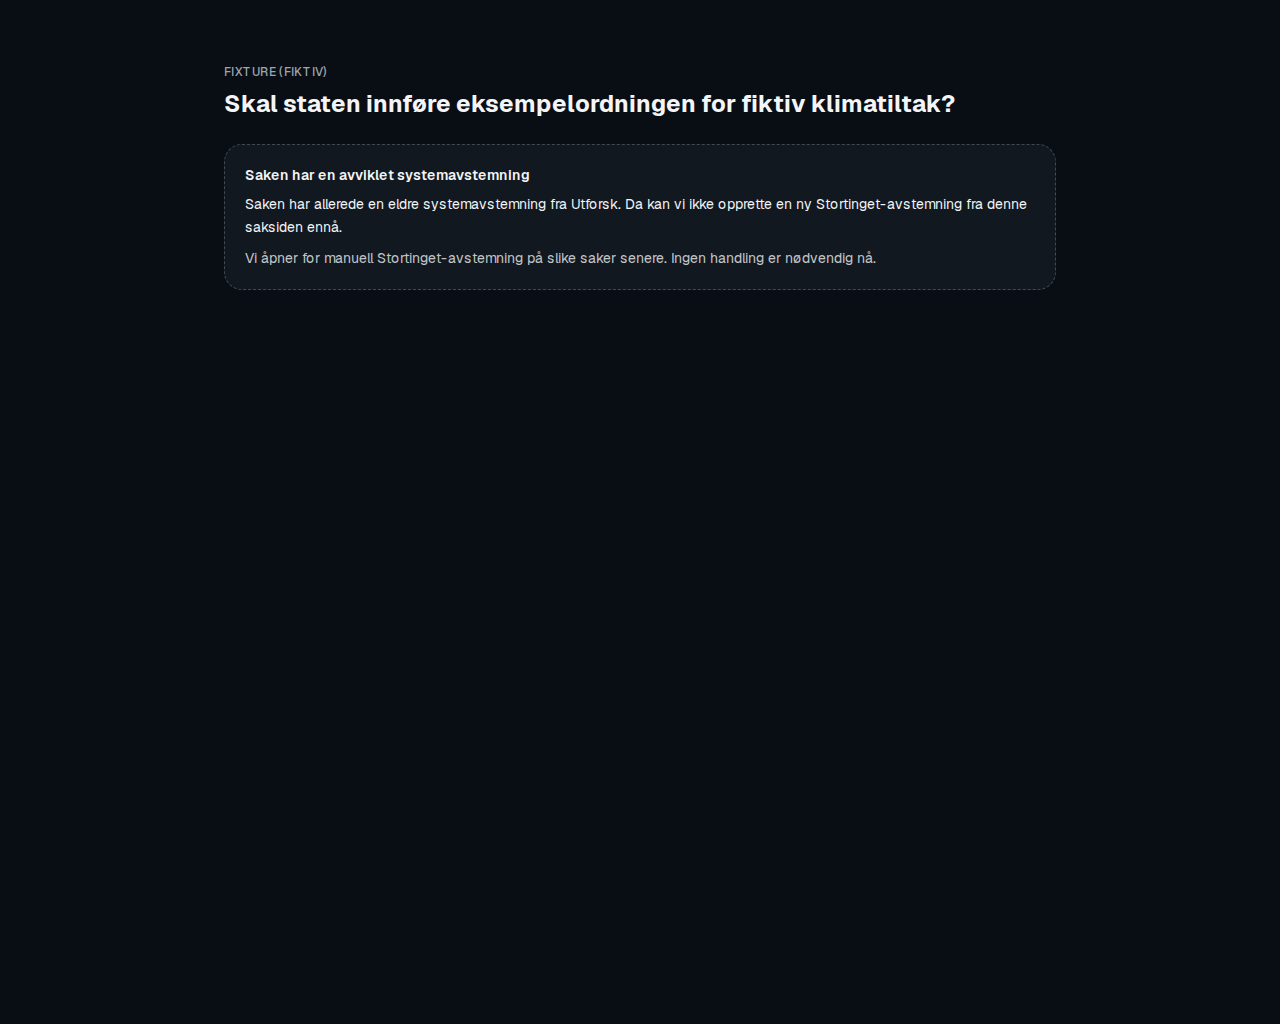
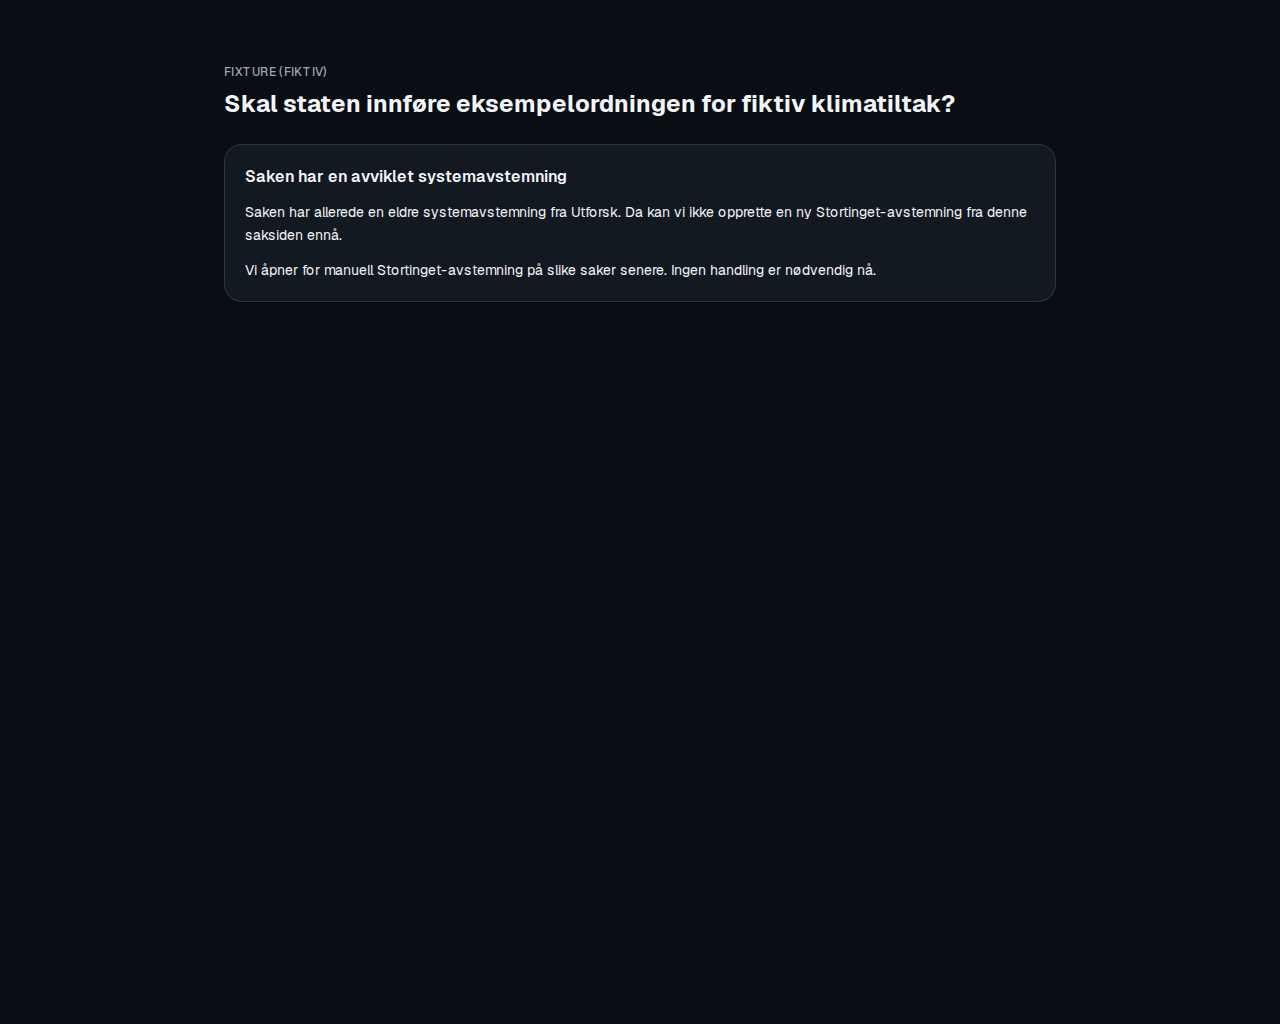
fix(admin,polls): dialog errors, closed ballot results, PNGs
Show validation alert above dialog footer with invalid field styling;
closed poll detail shows read-only result tiles; Rediger stengt-note above
Dato with space-y-3. Regenerate fixture screenshots including blocked
state and avstemning-detalj-avsluttet dark.

Changed region(s): [[0.1875, 0.1562, 0.8125, 0.2812]]

diff --git a/components/sak/stortinget-poll-admin-section.tsx b/components/sak/stortinget-poll-admin-section.tsx
@@ -1,6 +1,6 @@
 'use client';
 
-import { useState, useTransition } from 'react';
+import { useState, useTransition, useId } from 'react';
 import Link from 'next/link';
 import { useRouter } from 'next/navigation';
 import { ExternalLink, Loader2 } from 'lucide-react';
@@ -74,6 +74,30 @@ function ballotWarningPhrase(): string {
   return `${labels[0]}, ${labels[1]} eller ${labels[2]}`;
 }
 
+function invalidFieldsFromError(error: string | null): {
+  title: boolean;
+  neutralSummary: boolean;
+  closesAt: boolean;
+} {
+  if (!error) {
+    return { title: false, neutralSummary: false, closesAt: false };
+  }
+  const lower = error.toLowerCase();
+  return {
+    title: /tittel/.test(lower),
+    neutralSummary: /ingress/.test(lower),
+    closesAt: /dato|klokkeslett|sluttidspunkt|fremtiden|ugyldig slutt/.test(lower),
+  };
+}
+
+function fieldClass(invalid: boolean): string {
+  return cn(FIELD_CLASS, invalid && 'border-destructive');
+}
+
+function textareaClass(invalid: boolean): string {
+  return cn(TEXTAREA_CLASS, invalid && 'border-destructive');
+}
+
 export function StortingetPollAdminSection({
   sakId,
   sakTitle,
@@ -100,6 +124,8 @@ export function StortingetPollAdminSection({
   const [publishedPollId, setPublishedPollId] = useState<string | null>(null);
   const router = useRouter();
   const { message, variant, toast } = useAdminToast();
+  const formErrorId = useId();
+  const invalidFields = invalidFieldsFromError(fieldError);
 
   const existingPoll = effectiveState.kind === 'editable' ? effectiveState.poll : null;
   const hasPoll =
@@ -198,7 +224,12 @@ export function StortingetPollAdminSection({
         ? 'Endringene vises for velgerne med en gang du lagrer.'
         : 'Avstemningen blir synlig for alle med en gang du publiserer.';
 
-  const primaryLabel = isEditMode ? 'Lagre endringer' : 'Publiser avstemning';
+  const formFooterError =
+    fieldError && dialogStep === 'form' ? (
+      <p id={formErrorId} role="alert" className="mb-3 text-sm font-medium text-destructive">
+        {fieldError}
+      </p>
+    ) : null;
 
   if (effectiveState.kind === 'blocked_system_poll') {
     return (
@@ -284,20 +315,23 @@ export function StortingetPollAdminSection({
               </button>
             </div>
           ) : (
-            <div className="flex flex-col-reverse gap-2 sm:flex-row sm:justify-end">
-              <button type="button" disabled={showPending} onClick={closeDialog} className={BTN_SECONDARY}>
-                Avbryt
-              </button>
-              <button
-                type="button"
-                disabled={showPending}
-                onClick={handlePrimaryFormClick}
-                className={BTN_PRIMARY}
-              >
-                {showPending ? <Loader2 className="h-4 w-4 animate-spin" aria-hidden /> : null}
-                {isEditMode ? 'Lagre endringer' : 'Publiser avstemning'}
-              </button>
-            </div>
+            <>
+              {formFooterError}
+              <div className="flex flex-col-reverse gap-2 sm:flex-row sm:justify-end">
+                <button type="button" disabled={showPending} onClick={closeDialog} className={BTN_SECONDARY}>
+                  Avbryt
+                </button>
+                <button
+                  type="button"
+                  disabled={showPending}
+                  onClick={handlePrimaryFormClick}
+                  className={BTN_PRIMARY}
+                >
+                  {showPending ? <Loader2 className="h-4 w-4 animate-spin" aria-hidden /> : null}
+                  {isEditMode ? 'Lagre endringer' : 'Publiser avstemning'}
+                </button>
+              </div>
+            </>
           )
         }
       >
@@ -324,7 +358,9 @@ export function StortingetPollAdminSection({
                 maxLength={STORTINGET_POLL_TITLE_MAX}
                 value={title}
                 onChange={(event) => setTitle(event.target.value)}
-                className={FIELD_CLASS}
+                className={fieldClass(invalidFields.title)}
+                aria-invalid={invalidFields.title || undefined}
+                aria-describedby={invalidFields.title && fieldError ? formErrorId : undefined}
               />
               <p className="text-xs text-muted-foreground">
                 Maks {STORTINGET_POLL_TITLE_MAX} tegn ({title.length}/{STORTINGET_POLL_TITLE_MAX})
@@ -341,12 +377,27 @@ export function StortingetPollAdminSection({
                 maxLength={STORTINGET_POLL_NEUTRAL_SUMMARY_MAX}
                 value={neutralSummary}
                 onChange={(event) => setNeutralSummary(event.target.value)}
-                className={TEXTAREA_CLASS}
+                className={textareaClass(invalidFields.neutralSummary)}
+                aria-invalid={invalidFields.neutralSummary || undefined}
+                aria-describedby={invalidFields.neutralSummary && fieldError ? formErrorId : undefined}
               />
             </div>
 
             <div className="space-y-3">
               <span className="block text-sm font-medium text-foreground">Sluttidspunkt (valgfritt)</span>
+              {pollClosed && existingPoll?.closesAt ? (
+                <p className="text-sm leading-relaxed text-muted-foreground">
+                  {(() => {
+                    const closedAt = utcIsoToNorwegianClosesAtFields(existingPoll.closesAt);
+                    return (
+                      <>
+                        Avstemningen er stengt (sluttidspunkt {closedAt.date} {closedAt.time}). Du kan lagre andre
+                        endringer uten å endre sluttidspunktet.
+                      </>
+                    );
+                  })()}
+                </p>
+              ) : null}
               <div className="flex max-w-md flex-col gap-3 sm:flex-row sm:gap-2">
                 <div className="min-w-0 flex-1 space-y-1">
                   <label htmlFor="stortinget-poll-closes-date" className="block text-xs text-muted-foreground">
@@ -360,7 +411,9 @@ export function StortingetPollAdminSection({
                     autoComplete="off"
                     value={closesAtDate}
                     onChange={(event) => setClosesAtDate(event.target.value)}
-                    className={FIELD_CLASS}
+                    className={fieldClass(invalidFields.closesAt)}
+                    aria-invalid={invalidFields.closesAt || undefined}
+                    aria-describedby={invalidFields.closesAt && fieldError ? formErrorId : undefined}
                   />
                 </div>
                 <div className="min-w-0 flex-1 space-y-1">
@@ -375,23 +428,12 @@ export function StortingetPollAdminSection({
                     autoComplete="off"
                     value={closesAtTime}
                     onChange={(event) => setClosesAtTime(event.target.value)}
-                    className={FIELD_CLASS}
+                    className={fieldClass(invalidFields.closesAt)}
+                    aria-invalid={invalidFields.closesAt || undefined}
+                    aria-describedby={invalidFields.closesAt && fieldError ? formErrorId : undefined}
                   />
                 </div>
               </div>
-              {pollClosed && existingPoll?.closesAt ? (
-                <p className="mt-4 text-sm leading-relaxed text-muted-foreground">
-                  {(() => {
-                    const closedAt = utcIsoToNorwegianClosesAtFields(existingPoll.closesAt);
-                    return (
-                      <>
-                        Avstemningen er stengt (sluttidspunkt {closedAt.date} {closedAt.time}). Du kan lagre andre
-                        endringer uten å endre sluttidspunktet.
-                      </>
-                    );
-                  })()}
-                </p>
-              ) : null}
               <p className="text-xs text-muted-foreground">
                 Tid i Europe/Oslo. La begge felt stå tomme for å fjerne sluttidspunkt. Nytt tidspunkt må ligge i
                 fremtiden.
@@ -413,12 +455,6 @@ export function StortingetPollAdminSection({
                 <span className="break-all">{stortingetPageUrl}</span>
               </a>
             </div>
-
-            {fieldError ? (
-              <p role="alert" className="text-sm text-destructive">
-                {fieldError}
-              </p>
-            ) : null}
           </div>
         )}
       </Dialog>

diff --git a/components/polls/poll-ballot.tsx b/components/polls/poll-ballot.tsx
@@ -12,6 +12,7 @@ import {
 import { POLL_BALLOT_CHOICES, pollChoiceLabel } from '@/lib/polls/labels';
 import type { PollChoice, PollTotals } from '@/lib/polls/types';
 import { PollBallotVoteButton } from '@/components/polls/poll-ballot-vote-button';
+import { PollChoiceResultTiles } from '@/components/polls/poll-choice-result-tiles';
 import { routes } from '@/lib/routes';
 import { NonRepresentativeNotice } from '@/components/trust/non-representative-notice';
 import { cn } from '@/lib/utils';
@@ -79,40 +80,43 @@ export function PollBallot({
           <NonRepresentativeNotice count={totals.total} countLabel="stemmer" countLabelSingular="stemme" className="mt-2" />
         </>
       )}
-      <div className={cn(POLL_BALLOT_VOTE_BUTTON_GRID_CLASS, compact ? 'mt-0' : 'mt-4')}>
-        {votingOpen
-          ? POLL_BALLOT_CHOICES.map((choice) => {
-              const selected = userVote === choice;
-              return (
-                <PollBallotVoteButton
-                  key={choice}
-                  choice={choice}
-                  selected={selected}
-                  disabled={Boolean(userVote) || busy || !user}
-                  onClick={() => void vote(choice)}
-                  className={cn('flex-col gap-0.5 py-2', userVote && !selected ? 'opacity-60' : '')}
-                >
-                  <span>{pollChoiceLabel(choice)}</span>
-                  <span className="text-xs font-normal opacity-90">
-                    {(() => {
-                      const pct = pollChoicePercent(totals, choice);
-                      return pct != null ? `${pct}% · ${totals[choice]}` : `${totals[choice]} stemmer`;
-                    })()}
-                  </span>
-                </PollBallotVoteButton>
-              );
-            })
-          : null}
-      </div>
-      {!votingOpen ? (
-        <p className="mt-3 text-sm font-medium text-foreground" role="status">
-          {POLL_ENDED_USER_MESSAGE}
-        </p>
-      ) : userVote ? (
+      {votingOpen ? (
+        <div className={cn(POLL_BALLOT_VOTE_BUTTON_GRID_CLASS, compact ? 'mt-0' : 'mt-4')}>
+          {POLL_BALLOT_CHOICES.map((choice) => {
+            const selected = userVote === choice;
+            return (
+              <PollBallotVoteButton
+                key={choice}
+                choice={choice}
+                selected={selected}
+                disabled={Boolean(userVote) || busy || !user}
+                onClick={() => void vote(choice)}
+                className={cn('flex-col gap-0.5 py-2', userVote && !selected ? 'opacity-60' : '')}
+              >
+                <span>{pollChoiceLabel(choice)}</span>
+                <span className="text-xs font-normal opacity-90">
+                  {(() => {
+                    const pct = pollChoicePercent(totals, choice);
+                    return pct != null ? `${pct}% · ${totals[choice]}` : `${totals[choice]} stemmer`;
+                  })()}
+                </span>
+              </PollBallotVoteButton>
+            );
+          })}
+        </div>
+      ) : (
+        <>
+          <p className={cn('text-sm font-medium text-foreground', compact ? 'mt-0' : 'mt-4')} role="status">
+            {POLL_ENDED_USER_MESSAGE}
+          </p>
+          <PollChoiceResultTiles totals={totals} className={compact ? 'mt-3' : 'mt-4'} />
+        </>
+      )}
+      {votingOpen && userVote ? (
         <p className="mt-3 text-sm text-foreground">
           Du har stemt {pollChoiceLabel(userVote).toLowerCase()} (telles uten navn i statistikken).
         </p>
-      ) : !user ? (
+      ) : votingOpen && !user ? (
         <p className="mt-3 text-sm text-muted-foreground">
           <Link
             href={`${routes.login}?next=${encodeURIComponent(loginNext ?? routes.poll(pollId))}`}

diff --git a/components/polls/poll-card.tsx b/components/polls/poll-card.tsx
@@ -1,14 +1,13 @@
 import Link from 'next/link';
 import { formatStemmerCount } from '@/lib/norwegian-plural';
-import { isPollVotingOpen, pollChoicePercent, POLL_ENDED_USER_MESSAGE } from '@/lib/polls/format';
+import { isPollVotingOpen, POLL_ENDED_USER_MESSAGE } from '@/lib/polls/format';
 import { formatPollDisplayTitle } from '@/lib/polls/display-title';
 import {
-  POLL_BALLOT_CHOICES,
-  pollChoiceLabel,
   pollStatusLabel,
   pollTrackLabel,
 } from '@/lib/polls/labels';
 import type { PollRecord, PollTotals } from '@/lib/polls/types';
+import { PollChoiceResultTiles } from '@/components/polls/poll-choice-result-tiles';
 import { routes } from '@/lib/routes';
 
 type PollCardProps = {
@@ -71,20 +70,7 @@ export function PollCard({ poll, totals }: PollCardProps) {
       {!open ? (
         <p className="relative mt-3 text-sm font-medium text-foreground">{POLL_ENDED_USER_MESSAGE}</p>
       ) : null}
-      <div className="relative mt-4 grid grid-cols-3 gap-2">
-        {POLL_BALLOT_CHOICES.map((choice) => (
-          <div key={choice} className="rounded-xl border border-border bg-muted/40 px-3 py-2 text-center">
-            <p className="text-xs font-medium text-muted-foreground">{pollChoiceLabel(choice)}</p>
-            <p className="text-lg font-semibold text-foreground">
-              {(() => {
-                const pct = pollChoicePercent(totals, choice);
-                return pct != null ? `${pct}%` : '—';
-              })()}
-            </p>
-            <p className="text-xs text-muted-foreground">{totals[choice]}</p>
-          </div>
-        ))}
-      </div>
+      <PollChoiceResultTiles totals={totals} className="relative mt-4" />
       <div className="relative mt-4 flex items-center justify-between text-sm">
         <span className="text-muted-foreground">{formatStemmerCount(totals.total)}</span>
         <span className="inline-flex min-h-11 items-center font-medium text-brand">Åpne avstemning</span>

diff --git a/components/polls/poll-choice-result-tiles.tsx b/components/polls/poll-choice-result-tiles.tsx
@@ -1,0 +1,28 @@
+import { pollChoicePercent } from '@/lib/polls/format';
+import { POLL_BALLOT_CHOICES, pollChoiceLabel } from '@/lib/polls/labels';
+import type { PollTotals } from '@/lib/polls/types';
+import { cn } from '@/lib/utils';
+
+type PollChoiceResultTilesProps = {
+  totals: PollTotals;
+  className?: string;
+};
+
+export function PollChoiceResultTiles({ totals, className }: PollChoiceResultTilesProps) {
+  return (
+    <div className={cn('grid grid-cols-3 gap-2', className)}>
+      {POLL_BALLOT_CHOICES.map((choice) => (
+        <div key={choice} className="rounded-xl border border-border bg-muted/40 px-3 py-2 text-center">
+          <p className="text-xs font-medium text-muted-foreground">{pollChoiceLabel(choice)}</p>
+          <p className="text-lg font-semibold text-foreground">
+            {(() => {
+              const pct = pollChoicePercent(totals, choice);
+              return pct != null ? `${pct}%` : '—';
+            })()}
+          </p>
+          <p className="text-xs text-muted-foreground">{totals[choice]}</p>
+        </div>
+      ))}
+    </div>
+  );
+}

diff --git a/docs/stortinget-poll-admin/README.md b/docs/stortinget-poll-admin/README.md
@@ -29,4 +29,5 @@ Skriptet oppretter midlertidige ruter under `app/dev/stortinget-poll-admin-captu
 | `avstemning-liste-apen-light-1280.png` | `/avstemninger`-kort med lang tittel og fremtidig sluttid |
 | `avstemning-detalj-apen-light-1280.png` | Avstemningsside med stemmeknapper (åpen) |
 | `avstemning-liste-avsluttet-light-1280.png` | Liste med «Avstemningen er avsluttet» |
-| `avstemning-detalj-avsluttet-light-1280.png` | Detalj uten stemmeknapper, avsluttet |
+| `avstemning-detalj-avsluttet-light-1280.png` | Detalj uten stemmeknapper, avsluttet, med resultatfelt |
+| `avstemning-detalj-avsluttet-dark-1280.png` | Samme, mørk tema |
